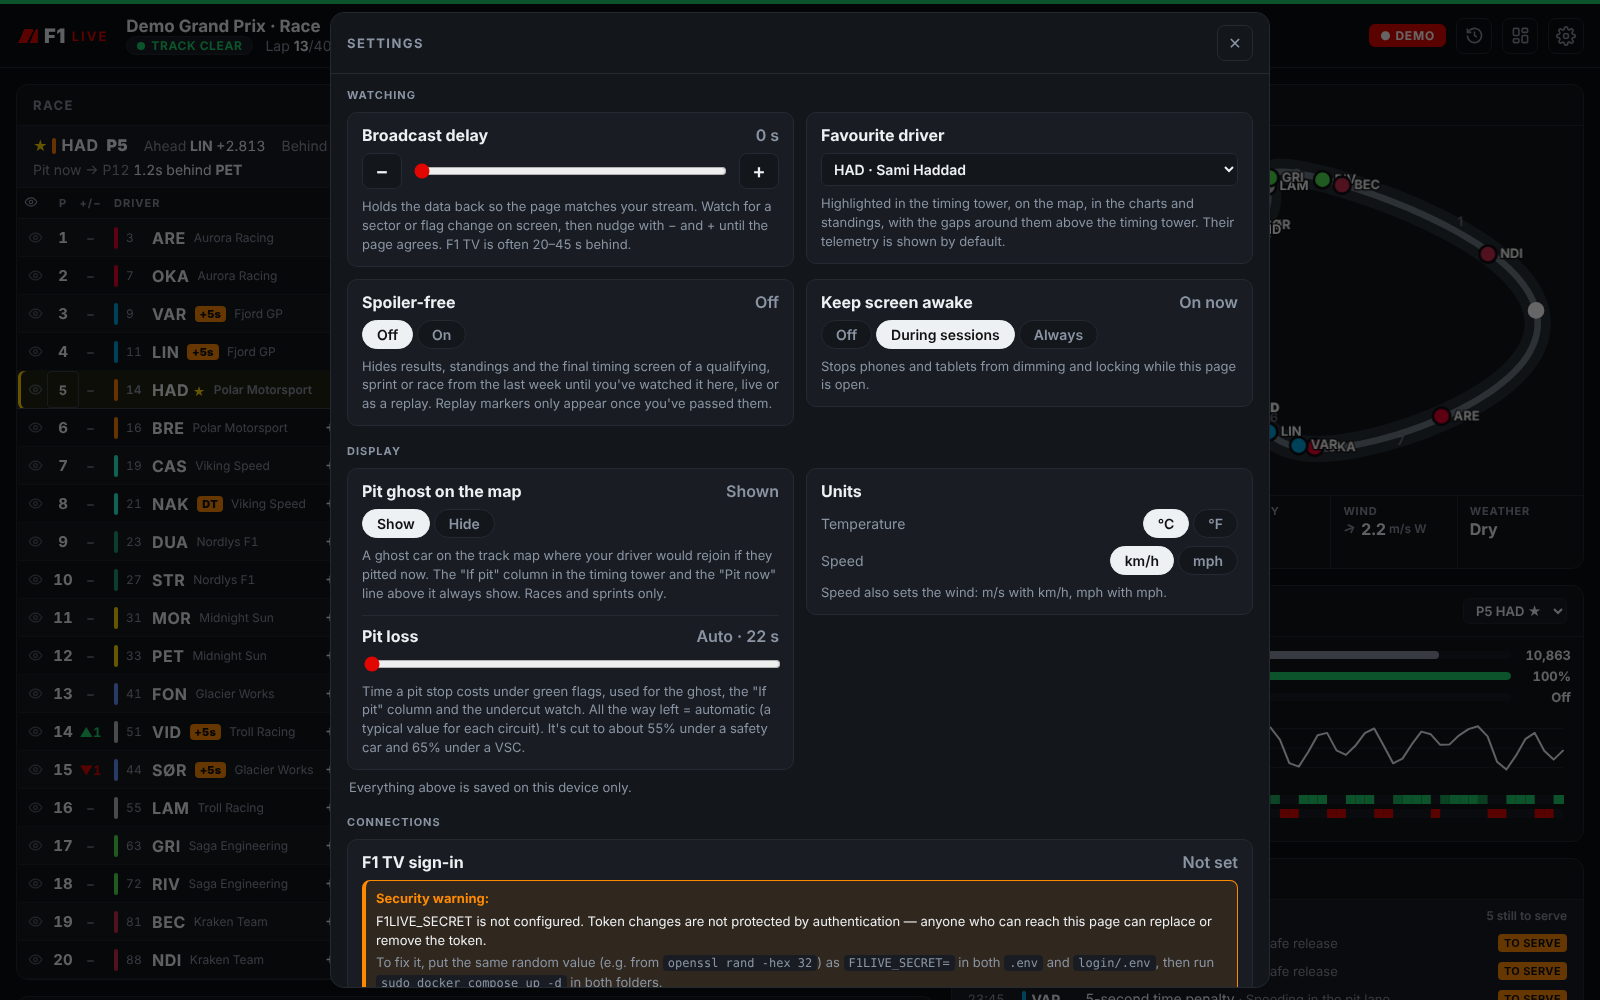
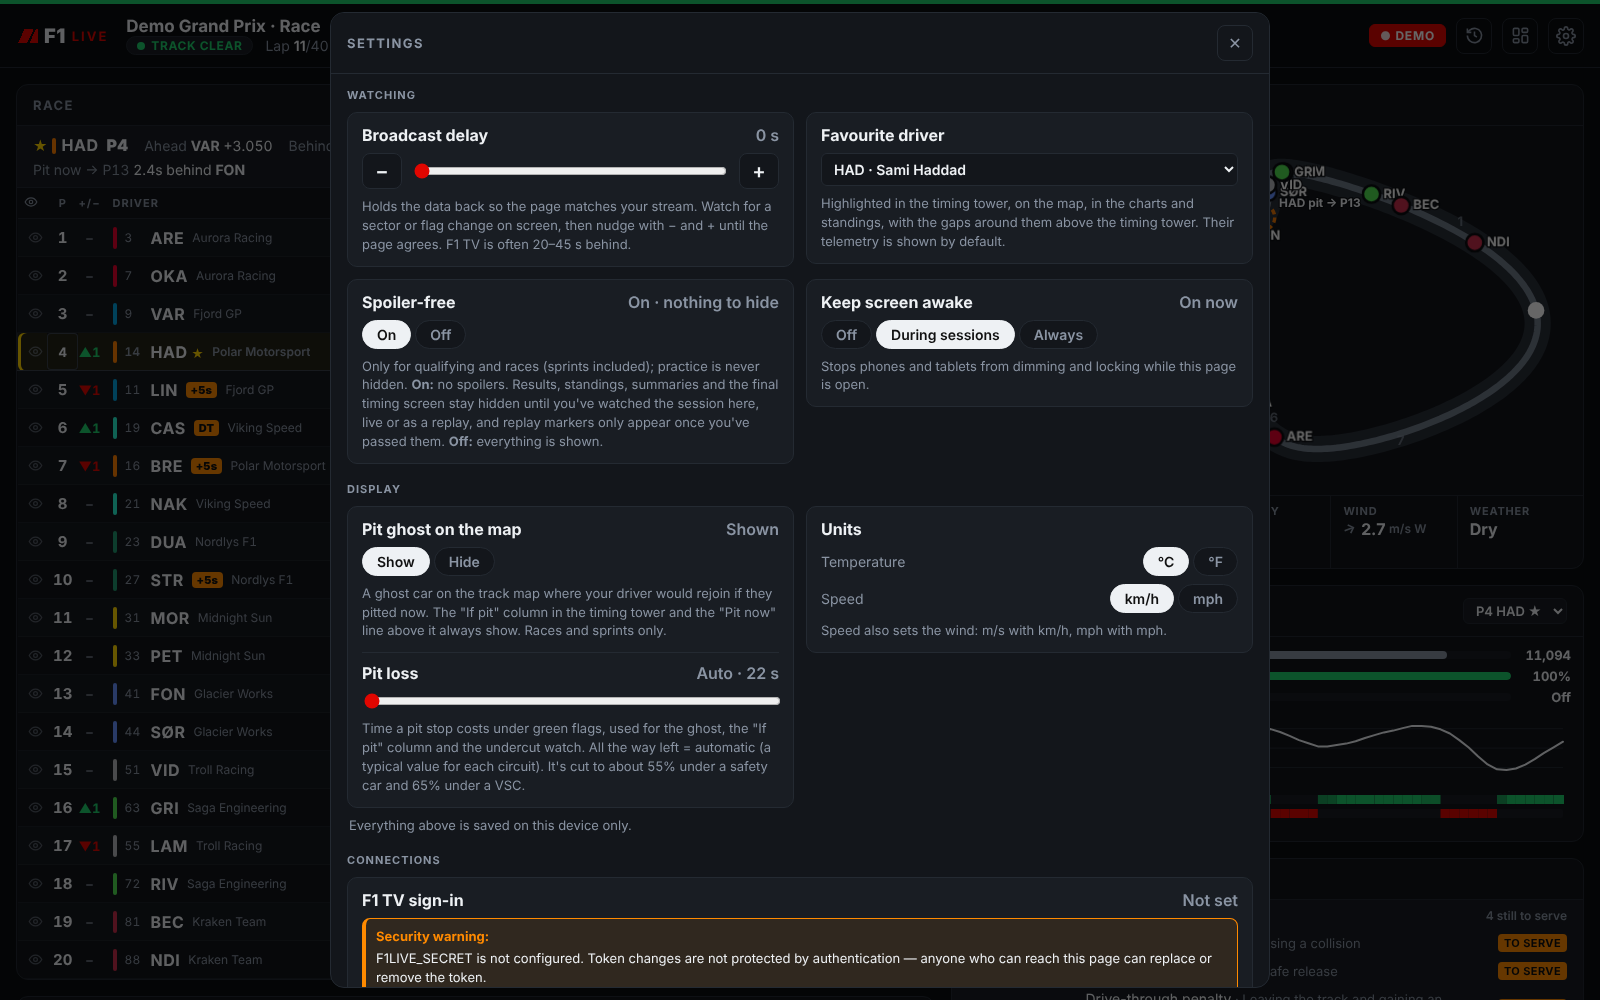
Spoiler-free: on hides every spoiler, off shows everything; on by default
On: results, standings, front-page summaries and the final timing screen of a qualifying,
sprint or race stay hidden until it has been watched. Off: everything is shown; the 24-hour
hold on summaries, which applied even with spoiler-free off, is gone. Practice is never hidden.
The setting says it only covers qualifying and races, reads On, Off (default first, like Show,
Hide for the pit ghost), and is on for any device that hasn't switched it off. Settings
screenshot retaken.

Claude-Session: https://claude.ai/code/session_011hiqTNZvaHNoTYxjNkAjW4

diff --git a/public/app.js b/public/app.js
@@ -131,7 +131,7 @@ const homeMode = () => !viewing && !document.body.classList.contains('editing') 
 // until this browser saw it finish live or played its replay to the end (or you tap "Show
 // anyway"). While one is not watched, results and standings are covered, replay markers only
 // appear once passed, and the final timing screen of that session stays behind the front page.
-let spoilerFree = store.get('spoilerFree', false);
+let spoilerFree = store.get('spoilerFree', true); // on unless switched off on this device
 let seen = store.get('seen', {}); // session id → 1
 // The watched list is kept on the server too, so a session watched on one device counts on all.
 function mergeSeen(map) {
@@ -211,14 +211,12 @@ const sesLabel = (s) => `${s.name} (${s.circuit})`;
 
 // ---------- session summaries (front page) ----------
 // A line per saved session: who was on top, fastest lap, biggest gainer, safety cars.
-// Qualifying, sprints and races: always behind a tap for the first 24 hours, after that only while
-// spoiler-free hides them. Practice is shown at once.
-const SUMMARY_HOLD_MS = 24 * 3600000;
+// Behind a tap only while spoiler-free hides that session (never practice); with spoiler-free off,
+// everything shows.
 let revealed = store.get('revealed', {}); // session id → 1: summaries shown on request
 const sumCache = new Map(); // id → summary | { loading } | { error }
 function summaryHidden(s) {
-  if (revealed[s.id] || isPractice(s)) return null;
-  if (s.start && Date.now() - Date.parse(s.start) < SUMMARY_HOLD_MS) return 'Hidden for the first 24 hours';
+  if (revealed[s.id]) return null;
   if (unseen().some((u) => u.id === s.id)) return 'Hidden until you\'ve watched it';
   return null;
 }

diff --git a/public/index.html b/public/index.html
@@ -195,8 +195,8 @@
 
           <div class="field">
             <span class="field-label">Spoiler-free <b id="spoilState"></b></span>
-            <span class="chips"><button type="button" class="chip-btn" data-spoil="0">Off</button><button type="button" class="chip-btn" data-spoil="1">On</button></span>
-            <span class="hint">Hides results, standings and the final timing screen of a qualifying, sprint or race from the last week until you've watched it here, live or as a replay. Replay markers only appear once you've passed them.</span>
+            <span class="chips"><button type="button" class="chip-btn" data-spoil="1">On</button><button type="button" class="chip-btn" data-spoil="0">Off</button></span>
+            <span class="hint">Only for qualifying and races (sprints included); practice is never hidden. <b>On:</b> no spoilers. Results, standings, summaries and the final timing screen stay hidden until you've watched the session here, live or as a replay, and replay markers only appear once you've passed them. <b>Off:</b> everything is shown.</span>
           </div>
 
           <div class="field">

diff --git a/README.md b/README.md
@@ -42,8 +42,8 @@ The replay bar on its own: ![Replay markers](docs/screenshots/14-replay-markers.
 - Teammates: a season head-to-head for every pair of teammates (qualifying, races both finished,
   and the typical qualifying gap), under Standings
 - A summary of each saved session on the front page: top three, fastest lap, biggest gainer,
-  safety cars and retirements. It stays behind a "Show" button for the first 24 hours, and after
-  that only while spoiler-free is hiding that session
+  safety cars and retirements. It stays behind a "Show" button while spoiler-free is hiding that
+  session
 - Results of every race, sprint and qualifying this season
 - A calendar feed (`/calendar.ics`) to subscribe to from your phone or computer
 
@@ -129,11 +129,12 @@ from its start too. Ticks above the timeline mark the start, safety cars, virtua
 red flags, the chequered flag and, in races, your favourite driver's pit stops; tap one, or use
 ⏮ ⏭, to jump to 5 seconds before it.
 
-**Spoiler-free** (⚙ settings, per device). A qualifying, sprint or race from the last 7 days
+**Spoiler-free** (⚙ settings, per device, on by default). A qualifying, sprint or race from the last 7 days
 counts as not watched until this browser saw it finish live or played its replay past the
-chequered flag. Until then the Results and Standings tabs are covered, the final timing screen of
-that session stays behind the front page, and replay markers only appear once you've passed
-them. "Show anyway" lifts it. The list of watched sessions is kept on the server
+chequered flag. Until then the Results and Standings tabs are covered, its summary on the front
+page and the final timing screen of that session stay hidden, and replay markers only appear once
+you've passed them. Practice is never hidden. "Show anyway" lifts it. With spoiler-free off,
+everything is shown. The list of watched sessions is kept on the server
 (`data/seen.json`) and shared by every device, so a race watched on the TV counts on your phone;
 the setting itself stays per device. Recordings are kept for
 the last `RECORD_WEEKENDS` weekends (default 3, `0` keeps all); older sessions keep their folder
